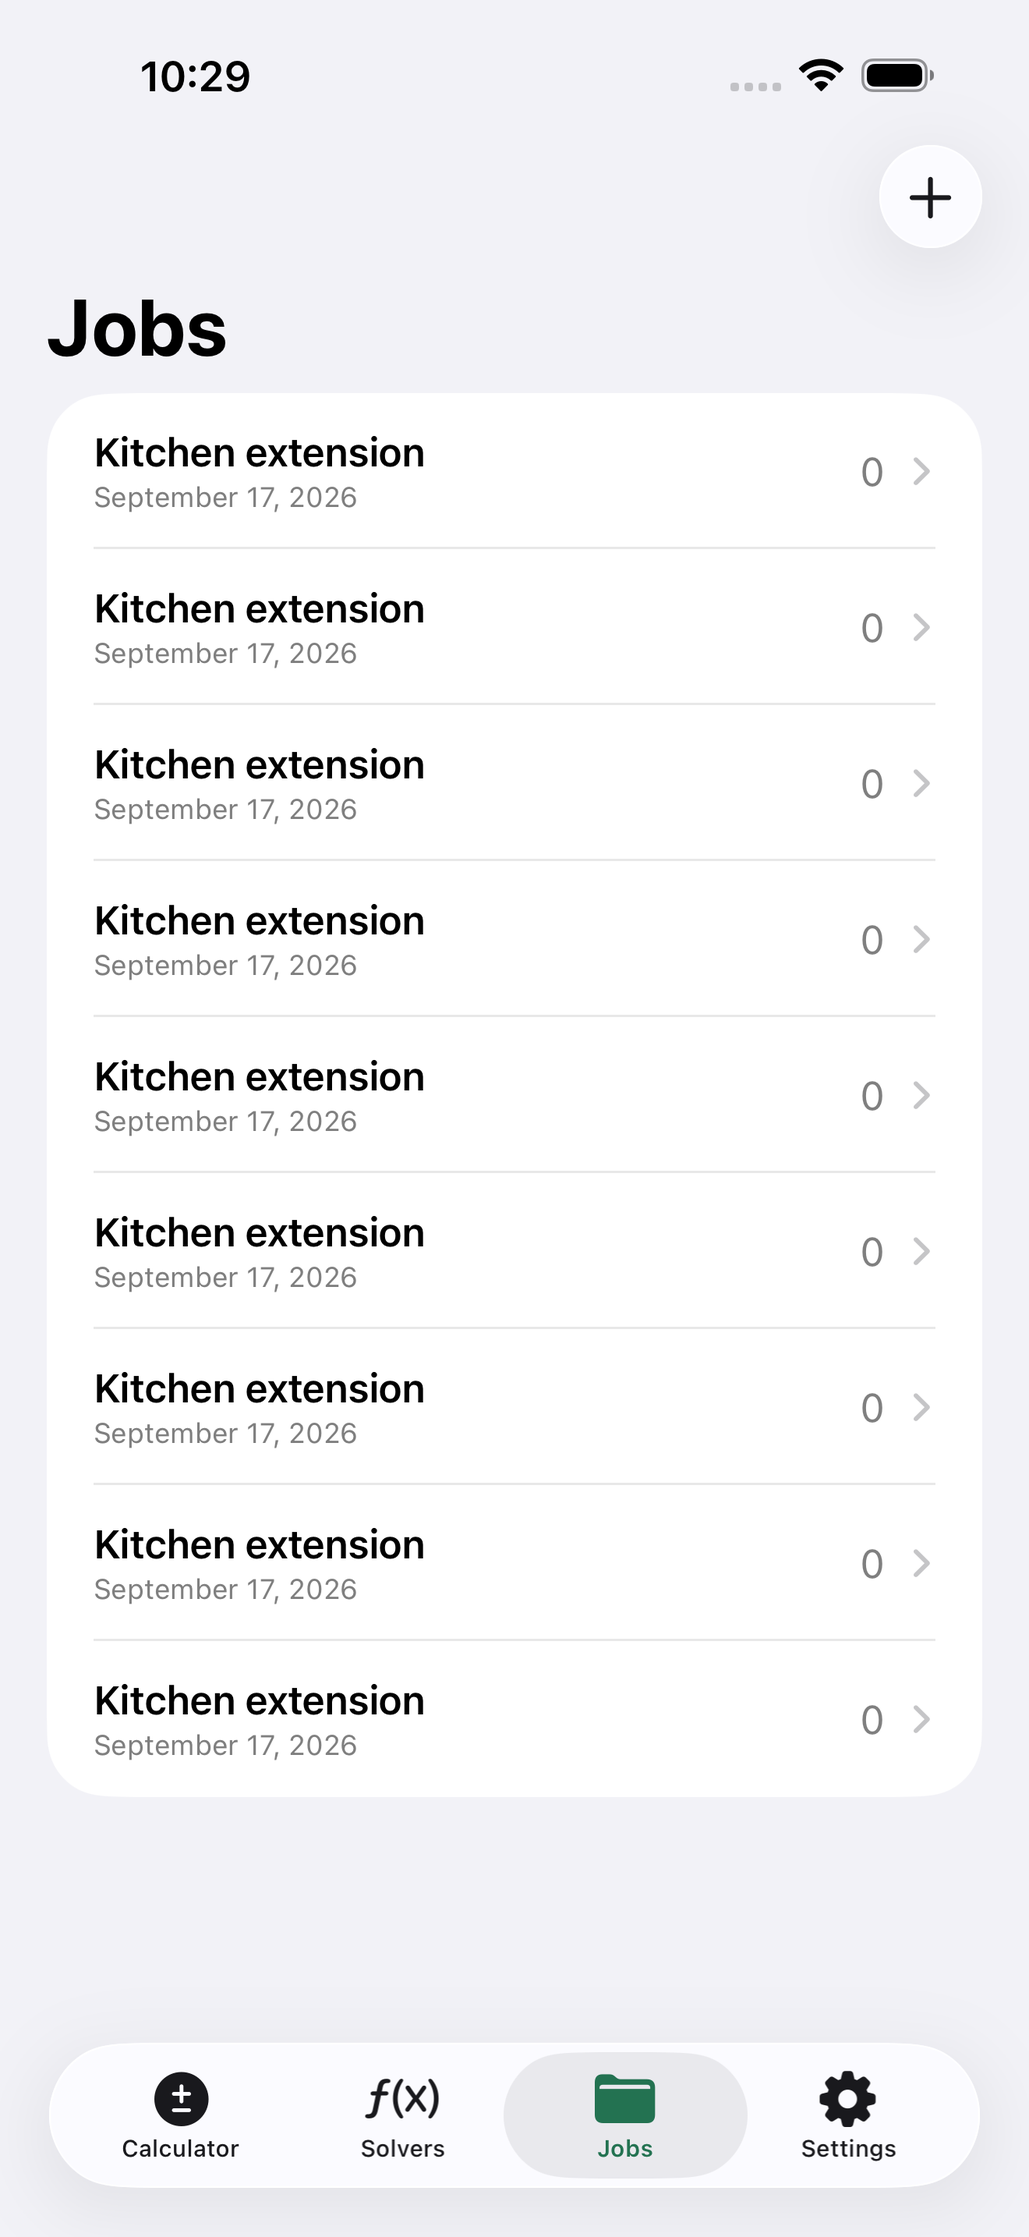
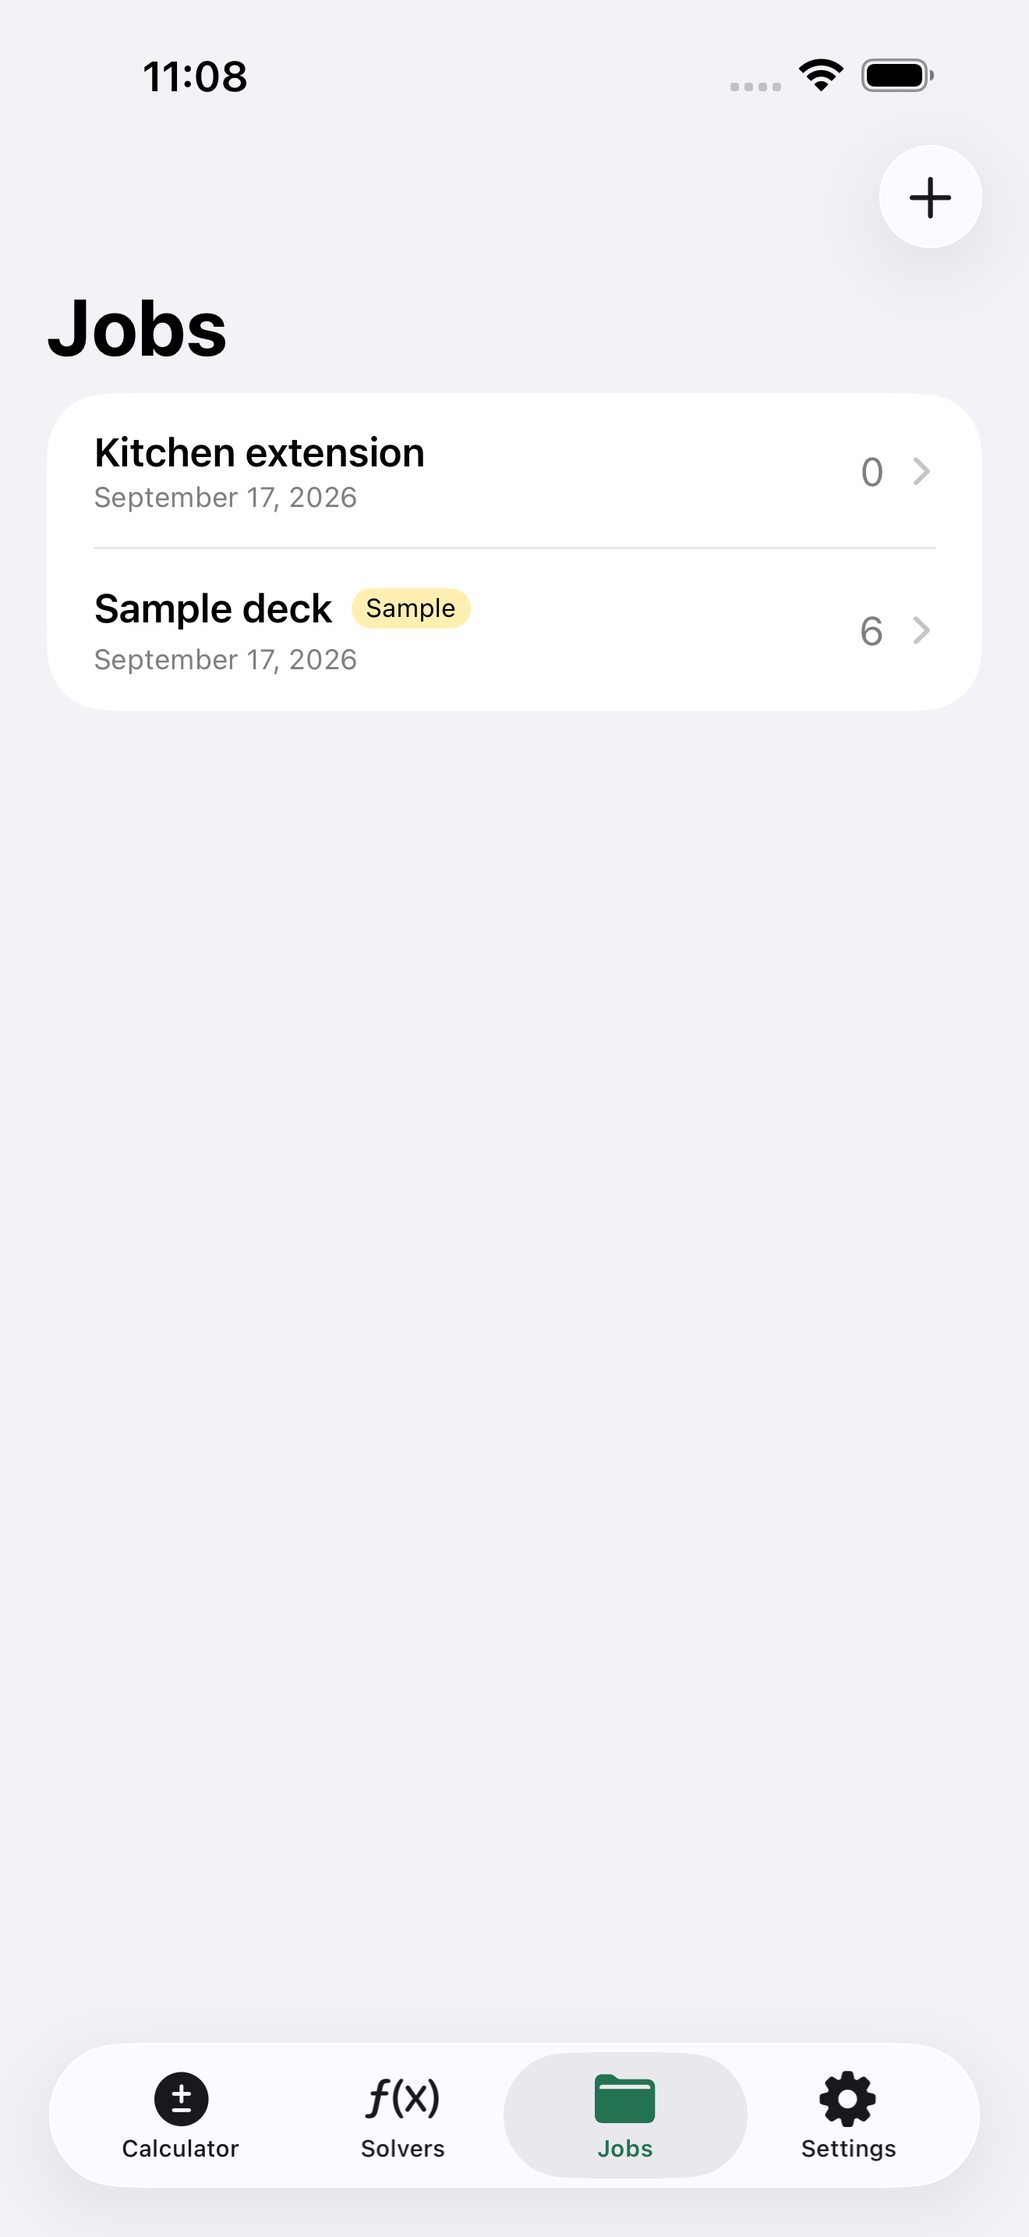
fix(site-calc): la app no pasaba de la pantalla de bienvenida
En una instalación nueva, tocar "Cargar ejemplo" o "Empezar vacío" no hacía
nada: el usuario se quedaba mirando el onboarding para siempre. Todas las
instalaciones. Un revisor de Apple no habría visto la app.

@Observable genera seguimiento de cambios solo para propiedades ALMACENADAS, y
las once de AppSettings son calculadas sobre UserDefaults. Así que la clase era
observable de nombre: FirstRunView escribía firstRunCompleted = true, el valor
se guardaba, y nadie se enteraba. RootView decide entre onboarding y la app con
ese valor y nunca se volvía a dibujar.

Los 87 tests no lo veían porque todos construyen AppSettings y lo leen de
vuelta, cosa que funciona perfectamente sin observación alguna. Lo cazó el
recorrido de capturas al arrancar desde una instalación limpia.

Cada accesor llama ahora a access(keyPath:) y withMutation(keyPath:) a mano, que
es la forma documentada de hacer observable una propiedad calculada. UserDefaults
sigue siendo la única fuente de verdad, y hay un test que lo comprueba.

El test de regresión se validó al revés: revertido el arreglo, falla con 11
aserciones. Un test que no puede fallar no prueba nada.

De paso, el recorrido de capturas arranca ahora desde el primer arranque real y
toma el trabajo de ejemplo que la app ofrece ahí. La captura que encabeza la
ficha ya no es una lista vacía: es un trabajo con su cinta etiquetada, una
cubierta resuelta y una lista de material. Ocho capturas en vez de seis.

90 tests, 0 fallos.

diff --git a/apps-ios/site-calc/Sources/Core/AppSettings.swift b/apps-ios/site-calc/Sources/Core/AppSettings.swift
@@ -10,77 +10,117 @@ enum MeasurementSystem: String, CaseIterable, Codable {
 /// `minTreadDepth`. Every stair calculation must be built on a limit the user
 /// typed in themselves, because a bundled limit would be a stale regulatory
 /// value shipped inside an offline app -- worse than no value at all.
+/// **Every property here is computed over UserDefaults, so each accessor has
+/// to tell the Observation framework by hand.** `@Observable` generates change
+/// tracking for *stored* properties only; a computed property registers no
+/// read and publishes no write. Without the `access` / `withMutation` calls
+/// below, setting `firstRunCompleted = true` wrote the value and told nobody:
+/// RootView never re-rendered, and tapping "Load sample" on a fresh install
+/// left the user staring at the onboarding screen forever. Every other
+/// setting had the same defect -- changing the fraction precision refreshed
+/// nothing that was not holding its own @State copy.
 @Observable
 final class AppSettings {
-    private let defaults: UserDefaults
+    @ObservationIgnored private let defaults: UserDefaults
 
     init(defaults: UserDefaults = .standard) {
         self.defaults = defaults
     }
 
     var preferredSystem: MeasurementSystem {
-        get { MeasurementSystem(rawValue: defaults.string(forKey: Keys.system) ?? "") ?? .imperial }
-        set { defaults.set(newValue.rawValue, forKey: Keys.system) }
+        get {
+            access(keyPath: \.preferredSystem)
+            return MeasurementSystem(rawValue: defaults.string(forKey: Keys.system) ?? "") ?? .imperial
+        }
+        set { withMutation(keyPath: \.preferredSystem) { defaults.set(newValue.rawValue, forKey: Keys.system) } }
     }
 
     var fractionPrecision: FractionPrecision {
         get {
+            access(keyPath: \.fractionPrecision)
             let raw = defaults.integer(forKey: Keys.precision)
             return FractionPrecision(rawValue: raw) ?? .sixteenth
         }
-        set { defaults.set(newValue.rawValue, forKey: Keys.precision) }
+        set { withMutation(keyPath: \.fractionPrecision) { defaults.set(newValue.rawValue, forKey: Keys.precision) } }
     }
 
     var preferredMetricUnit: LengthUnit {
-        get { LengthUnit(rawValue: defaults.string(forKey: Keys.metricUnit) ?? "") ?? .centimeter }
-        set { defaults.set(newValue.rawValue, forKey: Keys.metricUnit) }
+        get {
+            access(keyPath: \.preferredMetricUnit)
+            return LengthUnit(rawValue: defaults.string(forKey: Keys.metricUnit) ?? "") ?? .centimeter
+        }
+        set { withMutation(keyPath: \.preferredMetricUnit) { defaults.set(newValue.rawValue, forKey: Keys.metricUnit) } }
     }
 
     /// nil until the user sets it. No default: see the type's doc comment.
     var maxRiserHeight: Length? {
-        get { rational(Keys.maxRiserN, Keys.maxRiserD).map(Length.init(inches:)) }
-        set { setRational(newValue?.inches, Keys.maxRiserN, Keys.maxRiserD) }
+        get {
+            access(keyPath: \.maxRiserHeight)
+            return rational(Keys.maxRiserN, Keys.maxRiserD).map(Length.init(inches:))
+        }
+        set { withMutation(keyPath: \.maxRiserHeight) { setRational(newValue?.inches, Keys.maxRiserN, Keys.maxRiserD) } }
     }
 
     /// nil until the user sets it. No default: see the type's doc comment.
     var minTreadDepth: Length? {
-        get { rational(Keys.minTreadN, Keys.minTreadD).map(Length.init(inches:)) }
-        set { setRational(newValue?.inches, Keys.minTreadN, Keys.minTreadD) }
+        get {
+            access(keyPath: \.minTreadDepth)
+            return rational(Keys.minTreadN, Keys.minTreadD).map(Length.init(inches:))
+        }
+        set { withMutation(keyPath: \.minTreadDepth) { setRational(newValue?.inches, Keys.minTreadN, Keys.minTreadD) } }
     }
 
     /// An ordinary product default (16 in on centre), not a code value -- the
     /// user can change it in Settings and the framing solver never assumes it.
     var studSpacing: Length {
-        get { rational(Keys.studSpacingN, Keys.studSpacingD).map(Length.init(inches:)) ?? Length(16, .inches) }
-        set { setRational(newValue.inches, Keys.studSpacingN, Keys.studSpacingD) }
+        get {
+            access(keyPath: \.studSpacing)
+            return rational(Keys.studSpacingN, Keys.studSpacingD).map(Length.init(inches:)) ?? Length(16, .inches)
+        }
+        set { withMutation(keyPath: \.studSpacing) { setRational(newValue.inches, Keys.studSpacingN, Keys.studSpacingD) } }
     }
 
     /// Standard 4x8 sheet, in feet -- a published dimension, editable.
     var sheetWidth: Length {
-        get { rational(Keys.sheetWidthN, Keys.sheetWidthD).map(Length.init(inches:)) ?? Length(4, .feet) }
-        set { setRational(newValue.inches, Keys.sheetWidthN, Keys.sheetWidthD) }
+        get {
+            access(keyPath: \.sheetWidth)
+            return rational(Keys.sheetWidthN, Keys.sheetWidthD).map(Length.init(inches:)) ?? Length(4, .feet)
+        }
+        set { withMutation(keyPath: \.sheetWidth) { setRational(newValue.inches, Keys.sheetWidthN, Keys.sheetWidthD) } }
     }
 
     var sheetHeight: Length {
-        get { rational(Keys.sheetHeightN, Keys.sheetHeightD).map(Length.init(inches:)) ?? Length(8, .feet) }
-        set { setRational(newValue.inches, Keys.sheetHeightN, Keys.sheetHeightD) }
+        get {
+            access(keyPath: \.sheetHeight)
+            return rational(Keys.sheetHeightN, Keys.sheetHeightD).map(Length.init(inches:)) ?? Length(8, .feet)
+        }
+        set { withMutation(keyPath: \.sheetHeight) { setRational(newValue.inches, Keys.sheetHeightN, Keys.sheetHeightD) } }
     }
 
     var tileWastePercent: Rational {
-        get { rational(Keys.wasteN, Keys.wasteD) ?? Rational(10) }
-        set { setRational(newValue, Keys.wasteN, Keys.wasteD) }
+        get {
+            access(keyPath: \.tileWastePercent)
+            return rational(Keys.wasteN, Keys.wasteD) ?? Rational(10)
+        }
+        set { withMutation(keyPath: \.tileWastePercent) { setRational(newValue, Keys.wasteN, Keys.wasteD) } }
     }
 
     /// 0.60 cubic feet: the standard yield of an 80 lb bag (F014's reference
     /// section), editable, and the user can pick 40 or 60 lb yields instead.
     var concreteBagYieldCubicFeet: Rational {
-        get { rational(Keys.bagYieldN, Keys.bagYieldD) ?? Rational(3, 5) }
-        set { setRational(newValue, Keys.bagYieldN, Keys.bagYieldD) }
+        get {
+            access(keyPath: \.concreteBagYieldCubicFeet)
+            return rational(Keys.bagYieldN, Keys.bagYieldD) ?? Rational(3, 5)
+        }
+        set { withMutation(keyPath: \.concreteBagYieldCubicFeet) { setRational(newValue, Keys.bagYieldN, Keys.bagYieldD) } }
     }
 
     var firstRunCompleted: Bool {
-        get { defaults.bool(forKey: Keys.firstRunCompleted) }
-        set { defaults.set(newValue, forKey: Keys.firstRunCompleted) }
+        get {
+            access(keyPath: \.firstRunCompleted)
+            return defaults.bool(forKey: Keys.firstRunCompleted)
+        }
+        set { withMutation(keyPath: \.firstRunCompleted) { defaults.set(newValue, forKey: Keys.firstRunCompleted) } }
     }
 
     private func rational(_ numKey: String, _ denKey: String) -> Rational? {

diff --git a/apps-ios/site-calc/ScreenshotTests/ScreenshotTests.swift b/apps-ios/site-calc/ScreenshotTests/ScreenshotTests.swift
@@ -13,11 +13,13 @@ final class ScreenshotTests: XCTestCase {
     override func setUpWithError() throws {
         continueAfterFailure = false
         app = XCUIApplication()
-        app.launchArguments += ["-FactoryUITest", "-AppleLanguages", "(en)", "-AppleLocale", "en_US"]
+        app.launchArguments += ["-FactoryUITest", "-FactoryUITestFirstRun",
+                                 "-AppleLanguages", "(en)", "-AppleLocale", "en_US"]
         app.launch()
     }
 
     func testCaptureMainScreens() throws {
+        try loadTheSampleJob()
         try buildATape()
         try solveARoof()
         try solveAStair()
@@ -28,6 +30,19 @@ final class ScreenshotTests: XCTestCase {
     }
 
     // MARK: - screens
+
+    /// First Run offers a worked sample job -- a tape, a roof result and a
+    /// material list. Taking it is what a new user does and what a reviewer
+    /// sees, and it is the difference between a Jobs screen that shows the
+    /// app working and one that shows an empty list.
+    private func loadTheSampleJob() throws {
+        let load = app.buttons["firstRun.loadSample"]
+        XCTAssertTrue(load.waitForExistence(timeout: 15), "First Run never appeared")
+        capture(named: "07-firstrun")
+        load.tap()
+        XCTAssertTrue(app.tabBars.buttons.element(boundBy: 0).waitForExistence(timeout: 15),
+                      "the app never got past First Run")
+    }
 
     /// 14' 3-5/8" + 9' 11-3/4". The headline sum from the spec, entered the way
     /// a user enters it: digits, a unit key, a fraction, an operator.
@@ -46,7 +61,7 @@ final class ScreenshotTests: XCTestCase {
         XCTAssertTrue(app.staticTexts["calculator.result"].waitForExistence(timeout: 10),
                       "the calculator never produced a result")
         assertEveryKeyIsOnScreen()
-        capture(named: "03-calculator")
+        capture(named: "04-calculator")
     }
 
     private func solveARoof() throws {
@@ -56,7 +71,7 @@ final class ScreenshotTests: XCTestCase {
         type("7", into: "roof.pitch")
         XCTAssertTrue(app.descendants(matching: .any)["roof.result.pitchDegrees"].waitForExistence(timeout: 10),
                       "the roof solver never produced a result")
-        capture(named: "04-roof")
+        capture(named: "05-roof")
         back()
     }
 
@@ -67,7 +82,7 @@ final class ScreenshotTests: XCTestCase {
         type("10", into: "stair.minTread")
         let solve = app.buttons["stair.solve"]
         if solve.waitForExistence(timeout: 5), solve.isEnabled { solve.tap() }
-        capture(named: "05-stair")
+        capture(named: "06-stair")
         XCTAssertTrue(app.descendants(matching: .any)["stair.result.riserCount"].waitForExistence(timeout: 10),
                       "the stair solver never produced a result")
         back()
@@ -87,7 +102,7 @@ final class ScreenshotTests: XCTestCase {
             .matching(NSPredicate(format: "identifier BEGINSWITH %@", "material.line."))
         XCTAssertTrue(lines.element(boundBy: 0).waitForExistence(timeout: 10),
                       "the estimator produced no material line")
-        capture(named: "02-materials")
+        capture(named: "03-materials")
         back()
     }
 
@@ -103,12 +118,29 @@ final class ScreenshotTests: XCTestCase {
         app.buttons["jobs.newSave"].tap()
         XCTAssertTrue(app.buttons["jobs.row.Kitchen extension"].waitForExistence(timeout: 10),
                       "the saved job never appeared in the list")
+        let sample = app.descendants(matching: .any)
+            .matching(NSPredicate(format: "identifier BEGINSWITH %@", "jobs.sampleBadge."))
+        XCTAssertTrue(sample.element(boundBy: 0).waitForExistence(timeout: 10),
+                      "the sample job is missing, so the Jobs screenshot would be an empty list")
         capture(named: "01-jobs")
+
+        // The sample job's own screen: a tape, a solved roof and a material
+        // list in one place. This is the app being a tool, which is the
+        // guideline 4.2 argument made in pictures.
+        let sampleRow = app.buttons.matching(NSPredicate(format: "identifier BEGINSWITH %@", "jobs.row."))
+        for index in 0..<sampleRow.count where sampleRow.element(boundBy: index).identifier != "jobs.row.Kitchen extension" {
+            sampleRow.element(boundBy: index).tap()
+            break
+        }
+        XCTAssertTrue(app.textFields["jobDetail.name"].waitForExistence(timeout: 10),
+                      "the job detail screen never appeared")
+        capture(named: "02-jobdetail")
+        back()
     }
 
     private func captureSettings() {
         tab("tab.settings").tap()
-        capture(named: "06-settings")
+        capture(named: "08-settings")
     }
 
     /// Apple asks for a screenshot of the purchase itself when an in-app
@@ -123,7 +155,7 @@ final class ScreenshotTests: XCTestCase {
         open.tap()
         XCTAssertTrue(app.descendants(matching: .any)["removeAds.unlocksNothing"].waitForExistence(timeout: 10),
                       "the Remove Ads screen never appeared")
-        capture(named: "07-removeads")
+        capture(named: "09-removeads")
     }
 
     /// The unit tests prove KeypadLayout computes a keypad that fits. They

diff --git a/apps-ios/site-calc/Tests/AppSettingsObservationTests.swift b/apps-ios/site-calc/Tests/AppSettingsObservationTests.swift
@@ -1,0 +1,80 @@
+import XCTest
+import Observation
+@testable import SiteCalc
+
+/// `@Observable` generates change tracking for **stored** properties only.
+/// Every property on `AppSettings` is computed over `UserDefaults`, so until
+/// each accessor called `access(keyPath:)` and `withMutation(keyPath:)` by
+/// hand, the class was observable in name only: a write updated the stored
+/// value and notified nobody.
+///
+/// What that cost: `FirstRunView` sets `firstRunCompleted = true` and
+/// `RootView` decides between onboarding and the app on that value. The write
+/// happened, no re-render followed, and a fresh install sat on the onboarding
+/// screen after the user tapped either button. Every install. It reached a
+/// screenshot run before anything noticed, because the unit tests all build
+/// `AppSettings` directly and read it back, which works perfectly well without
+/// any observation at all.
+final class AppSettingsObservationTests: XCTestCase {
+    private func freshSettings(_ name: String = #function) -> AppSettings {
+        let defaults = UserDefaults(suiteName: name)!
+        defaults.removePersistentDomain(forName: name)
+        return AppSettings(defaults: defaults)
+    }
+
+    /// Runs `mutate` and reports whether an observer watching `read` was told.
+    private func notifiesObserver(_ settings: AppSettings,
+                                   read: @escaping (AppSettings) -> Void,
+                                   mutate: (AppSettings) -> Void) -> Bool {
+        var notified = false
+        withObservationTracking { read(settings) } onChange: { notified = true }
+        mutate(settings)
+        return notified
+    }
+
+    func testFirstRunCompletedNotifiesItsObservers() {
+        let settings = freshSettings()
+        XCTAssertTrue(notifiesObserver(settings, read: { _ = $0.firstRunCompleted },
+                                        mutate: { $0.firstRunCompleted = true }),
+                      "RootView watches this: without a notification the app never leaves onboarding")
+    }
+
+    func testEverySettingTheUserCanChangeNotifiesItsObservers() {
+        let checks: [(String, (AppSettings) -> Void, (AppSettings) -> Void)] = [
+            ("preferredSystem", { _ = $0.preferredSystem }, { $0.preferredSystem = .metric }),
+            ("fractionPrecision", { _ = $0.fractionPrecision }, { $0.fractionPrecision = .thirtySecond }),
+            ("preferredMetricUnit", { _ = $0.preferredMetricUnit }, { $0.preferredMetricUnit = .millimeter }),
+            ("maxRiserHeight", { _ = $0.maxRiserHeight }, { $0.maxRiserHeight = Length(7, .inches) }),
+            ("minTreadDepth", { _ = $0.minTreadDepth }, { $0.minTreadDepth = Length(10, .inches) }),
+            ("studSpacing", { _ = $0.studSpacing }, { $0.studSpacing = Length(24, .inches) }),
+            ("sheetWidth", { _ = $0.sheetWidth }, { $0.sheetWidth = Length(5, .feet) }),
+            ("sheetHeight", { _ = $0.sheetHeight }, { $0.sheetHeight = Length(10, .feet) }),
+            ("tileWastePercent", { _ = $0.tileWastePercent }, { $0.tileWastePercent = Rational(15) }),
+            ("concreteBagYieldCubicFeet", { _ = $0.concreteBagYieldCubicFeet },
+             { $0.concreteBagYieldCubicFeet = Rational(45, 100) }),
+        ]
+        for (name, read, mutate) in checks {
+            let settings = freshSettings("observation.\(name)")
+            XCTAssertTrue(notifiesObserver(settings, read: read, mutate: mutate),
+                          "changing \(name) notifies nobody, so nothing on screen updates")
+        }
+    }
+
+    /// The value still has to survive a relaunch -- observation must not have
+    /// been bought by moving the truth out of UserDefaults.
+    func testValuesStillPersist() {
+        let name = "observation.persistence"
+        let defaults = UserDefaults(suiteName: name)!
+        defaults.removePersistentDomain(forName: name)
+
+        let first = AppSettings(defaults: defaults)
+        first.preferredSystem = .metric
+        first.fractionPrecision = .sixtyFourth
+        first.firstRunCompleted = true
+
+        let second = AppSettings(defaults: defaults)
+        XCTAssertEqual(second.preferredSystem, .metric)
+        XCTAssertEqual(second.fractionPrecision, .sixtyFourth)
+        XCTAssertTrue(second.firstRunCompleted)
+    }
+}

diff --git a/apps-ios/site-calc/Sources/RootView.swift b/apps-ios/site-calc/Sources/RootView.swift
@@ -5,7 +5,12 @@ struct RootView: View {
     @Environment(RemoveAdsStore.self) private var adsStore
 
     var body: some View {
-        if settings.firstRunCompleted || UITestMode.isActive {
+        // firstRunCompleted always wins: with startsAtFirstRun the screenshot
+        // run sees First Run once and then moves on, exactly as a new user
+        // does. Gating the whole condition on the flag instead kept the app on
+        // the onboarding screen forever, because finishing it sets
+        // firstRunCompleted and the flag stayed true.
+        if settings.firstRunCompleted || (UITestMode.isActive && !UITestMode.startsAtFirstRun) {
             TabView {
                 CalculatorView()
                     .tabItem { Label("tab.calculator", systemImage: "plusminus.circle") }

diff --git a/apps-ios/site-calc/Sources/UITestMode.swift b/apps-ios/site-calc/Sources/UITestMode.swift
@@ -8,4 +8,14 @@ enum UITestMode {
     static var isActive: Bool {
         ProcessInfo.processInfo.arguments.contains("-FactoryUITest")
     }
+
+    /// Normally a UI-test run skips First Run so the walk starts inside the
+    /// app. The screenshot run wants the opposite: First Run is where the
+    /// sample job is offered, and a Jobs list with the sample in it is the
+    /// state a new user -- and an App Store reviewer -- actually sees. Without
+    /// this the walk photographed an empty Jobs screen and called it the lead
+    /// store asset.
+    static var startsAtFirstRun: Bool {
+        ProcessInfo.processInfo.arguments.contains("-FactoryUITestFirstRun")
+    }
 }
